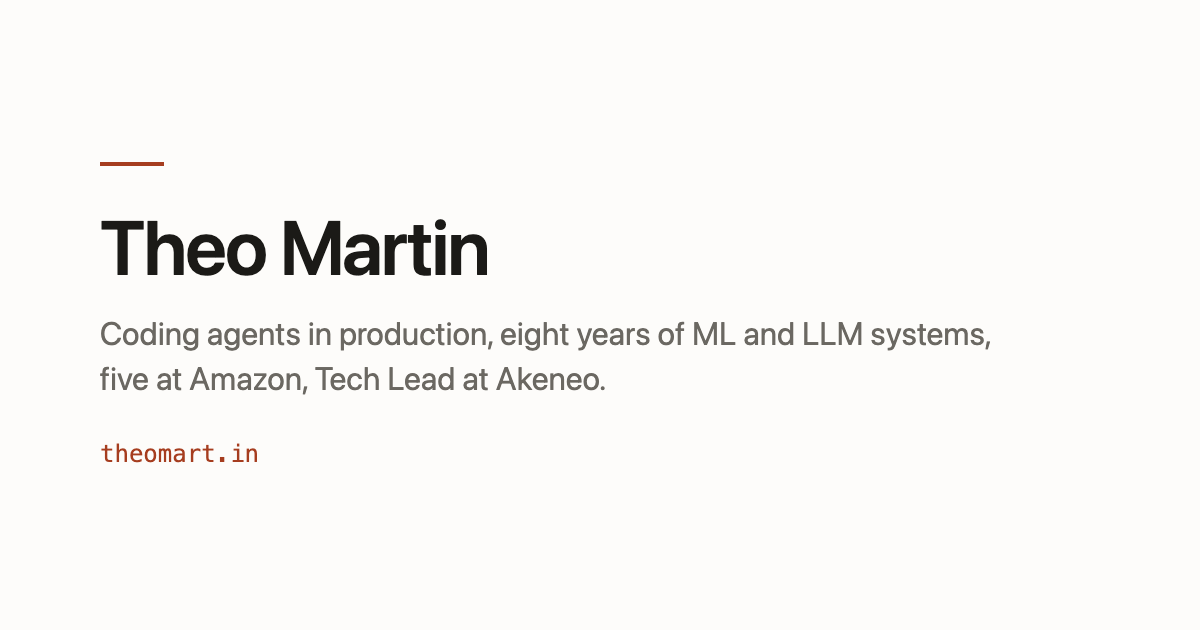
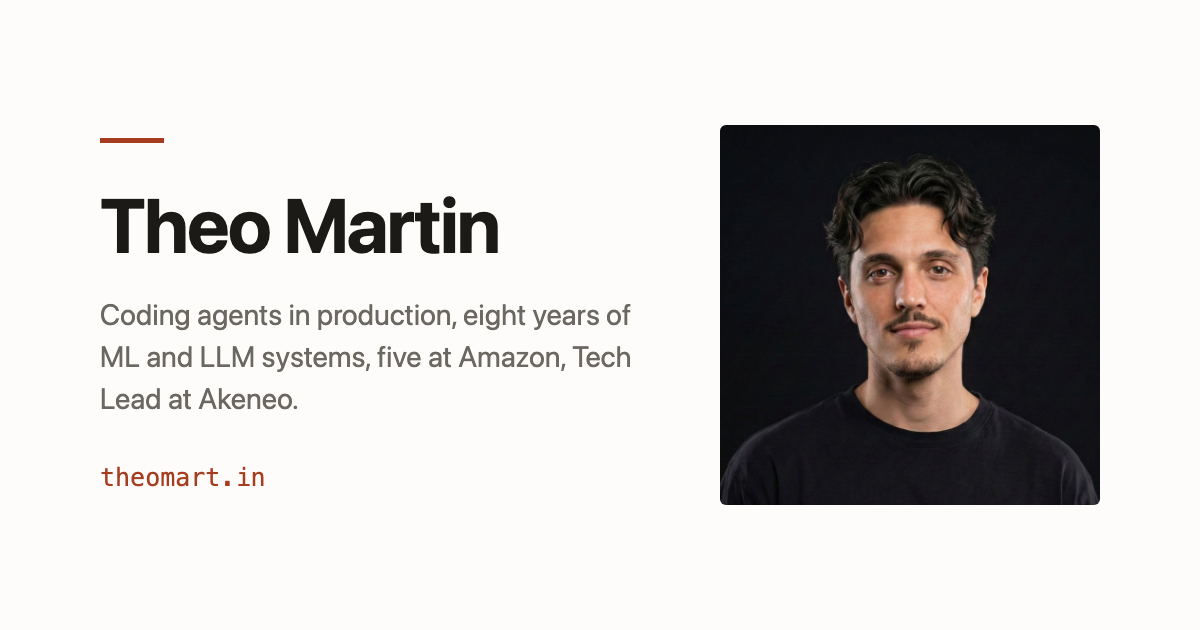
Add: portrait on home and about, photo in OG cards
Le site n'avait aucune image. Un visage est un signal de confiance
que les pages de vente n'avaient pas, et les partages sociaux
n'affichaient qu'une carte de texte.

Changes:
- static/theo.jpg, 640x640, servi sur les quatre pages statiques
- classe .portrait dans style.css, largeur 11rem, ratio carre
- champ image dans le JSON-LD Person des accueils et des a-propos
- cartes og-image fr et en regenerees avec le portrait a droite
- CLAUDE.md mis a jour, classes autorisees et contrat og_image

Benefits:
- preuve d'identite coherente avec le sameAs LinkedIn et GitHub
- partages LinkedIn et X montrent un visage au lieu d'un bloc de texte

diff --git a/pages/fr/a-propos.html b/pages/fr/a-propos.html
@@ -1,5 +1,7 @@
 <h1>À propos</h1>
 
+<img class="portrait" src="/static/theo.jpg" width="640" height="640" alt="Theo Martin, portrait">
+
 <p class="lede">Huit ans à mettre du ML puis des LLM en production, d’abord sur le pricing chez Amazon, ensuite sur des catalogues produit en SaaS. Aujourd’hui, des agents en production tous les jours, et de la place gardée chaque mois pour intervenir dans le repo d’autres équipes, là où le setup agentique est installé depuis des mois et rend encore une fraction de ce qu’il pourrait.</p>
 
 <h2>Le parcours</h2>
@@ -62,4 +64,4 @@
 
 <p class="meta"><a href="mailto:contacttheomartin@gmail.com">contacttheomartin@gmail.com</a>, <a href="https://www.linkedin.com/in/theomart/">LinkedIn</a>, <a href="https://github.com/theomart">GitHub</a>.</p>
 
-<script type="application/ld+json">{"@context":"https://schema.org","@type":"Person","name":"Theo Martin","url":"https://theomart.in/a-propos/","jobTitle":"Consultant indépendant, agents de code en production","description":"Huit ans de ML et de systèmes LLM en production, dont cinq chez Amazon, puis Tech Lead de l'équipe Core AI chez Akeneo.","sameAs":["https://www.linkedin.com/in/theomart/","https://github.com/theomart"],"alumniOf":[{"@type":"Organization","name":"Amazon"},{"@type":"Organization","name":"Akeneo"}],"knowsAbout":["Agents de code","Systèmes LLM en production","Claude Code","Ingénierie IA","Machine learning"]}</script>
+<script type="application/ld+json">{"@context":"https://schema.org","@type":"Person","name":"Theo Martin","image":"https://theomart.in/static/theo.jpg","url":"https://theomart.in/a-propos/","jobTitle":"Consultant indépendant, agents de code en production","description":"Huit ans de ML et de systèmes LLM en production, dont cinq chez Amazon, puis Tech Lead de l'équipe Core AI chez Akeneo.","sameAs":["https://www.linkedin.com/in/theomart/","https://github.com/theomart"],"alumniOf":[{"@type":"Organization","name":"Amazon"},{"@type":"Organization","name":"Akeneo"}],"knowsAbout":["Agents de code","Systèmes LLM en production","Claude Code","Ingénierie IA","Machine learning"]}</script>

diff --git a/pages/en/about.html b/pages/en/about.html
@@ -1,5 +1,7 @@
 <h1>About</h1>
 
+<img class="portrait" src="/static/theo.jpg" width="640" height="640" alt="Theo Martin, portrait">
+
 <p class="lede">Eight years putting ML and then LLMs into production, first on pricing at Amazon, then on product catalogs in SaaS. Today, agents in production every day, and room kept every month to work inside other teams’ repos, where the agentic setup has been installed for months and still returns a fraction of what it could.</p>
 
 <h2>The path</h2>
@@ -62,4 +64,4 @@
 
 <p class="meta">Based in Paris, EU timezone, overlap with US East until 5pm ET. <a href="mailto:contacttheomartin@gmail.com">contacttheomartin@gmail.com</a>, <a href="https://www.linkedin.com/in/theomart/">LinkedIn</a>, <a href="https://github.com/theomart">GitHub</a>.</p>
 
-<script type="application/ld+json">{"@context":"https://schema.org","@type":"Person","name":"Theo Martin","url":"https://theomart.in/en/about/","jobTitle":"Independent coding agents consultant","description":"Eight years of ML and production LLM systems, five of them at Amazon, then Tech Lead of the Core AI team at Akeneo.","sameAs":["https://www.linkedin.com/in/theomart/","https://github.com/theomart"],"alumniOf":[{"@type":"Organization","name":"Amazon"},{"@type":"Organization","name":"Akeneo"}],"knowsAbout":["Coding agents","Production LLM systems","Claude Code","AI engineering","Machine learning"]}</script>
+<script type="application/ld+json">{"@context":"https://schema.org","@type":"Person","name":"Theo Martin","image":"https://theomart.in/static/theo.jpg","url":"https://theomart.in/en/about/","jobTitle":"Independent coding agents consultant","description":"Eight years of ML and production LLM systems, five of them at Amazon, then Tech Lead of the Core AI team at Akeneo.","sameAs":["https://www.linkedin.com/in/theomart/","https://github.com/theomart"],"alumniOf":[{"@type":"Organization","name":"Amazon"},{"@type":"Organization","name":"Akeneo"}],"knowsAbout":["Coding agents","Production LLM systems","Claude Code","AI engineering","Machine learning"]}</script>

diff --git a/pages/en/index.html b/pages/en/index.html
@@ -1,5 +1,7 @@
 <h1>Theo Martin</h1>
 
+<img class="portrait" src="/static/theo.jpg" width="640" height="640" alt="Theo Martin, portrait">
+
 <p class="meta">Coding agents all look alike now, what makes the difference at your company is what you wrote around them, CLAUDE.md, skills, hooks, permissions, and six months after the licenses were bought that part is still empty.</p>
 
 <p class="lede">The tools are here and they are very good. Everywhere I have worked people underuse them, not out of laziness and not for lack of appetite, but because it is very easy to believe you have got the hang of a tool when you have not.</p>
@@ -66,4 +68,4 @@
 
 <p class="meta">Based in Paris, EU timezone, overlap with US East until 5pm ET. <a href="https://www.linkedin.com/in/theomart/">LinkedIn</a>, <a href="https://github.com/theomart">GitHub</a>.</p>
 
-<script type="application/ld+json">{"@context":"https://schema.org","@type":"Person","name":"Theo Martin","url":"https://theomart.in/en/","jobTitle":"Independent coding agents consultant","sameAs":["https://www.linkedin.com/in/theomart/","https://github.com/theomart"],"knowsAbout":["Coding agents","Production LLM systems","Claude Code","AI engineering"]}</script>
+<script type="application/ld+json">{"@context":"https://schema.org","@type":"Person","name":"Theo Martin","image":"https://theomart.in/static/theo.jpg","url":"https://theomart.in/en/","jobTitle":"Independent coding agents consultant","sameAs":["https://www.linkedin.com/in/theomart/","https://github.com/theomart"],"knowsAbout":["Coding agents","Production LLM systems","Claude Code","AI engineering"]}</script>

diff --git a/pages/fr/index.html b/pages/fr/index.html
@@ -1,5 +1,7 @@
 <h1>Theo Martin</h1>
 
+<img class="portrait" src="/static/theo.jpg" width="640" height="640" alt="Theo Martin, portrait">
+
 <p class="meta">Les agents de code se ressemblent tous maintenant, ce qui fait la différence chez vous c’est ce que vous avez écrit autour, CLAUDE.md, skills, hooks, permissions, et six mois après l’achat des licences cette partie-là est encore vide.</p>
 
 <p class="lede">Les outils sont là et ils sont très bons. Partout où je suis passé les gens les sous-utilisent, pas par paresse ni par manque d’envie, mais parce qu’il est très facile de croire qu’on a pris l’outil en main alors que non.</p>
@@ -66,4 +68,4 @@
 
 <p class="meta"><a href="https://www.linkedin.com/in/theomart/">LinkedIn</a></p>
 
-<script type="application/ld+json">{"@context":"https://schema.org","@type":"Person","name":"Theo Martin","url":"https://theomart.in/","jobTitle":"Consultant indépendant, agents de code en production","sameAs":["https://www.linkedin.com/in/theomart/","https://github.com/theomart"],"knowsAbout":["Agents de code","Systèmes LLM en production","Claude Code","Ingénierie IA"]}</script>
+<script type="application/ld+json">{"@context":"https://schema.org","@type":"Person","name":"Theo Martin","image":"https://theomart.in/static/theo.jpg","url":"https://theomart.in/","jobTitle":"Consultant indépendant, agents de code en production","sameAs":["https://www.linkedin.com/in/theomart/","https://github.com/theomart"],"knowsAbout":["Agents de code","Systèmes LLM en production","Claude Code","Ingénierie IA"]}</script>

diff --git a/static/style.css b/static/style.css
@@ -170,6 +170,17 @@ th { font-weight: 600; }
 
 .meta { color: var(--muted); font-size: 0.875rem; }
 
+/* Portrait : un seul visage sur le site, carré, jamais plus large que la colonne. */
+.portrait {
+  display: block;
+  width: 11rem;
+  max-width: 100%;
+  height: auto;
+  aspect-ratio: 1 / 1;
+  border-radius: 4px;
+  margin: 0 0 var(--s3);
+}
+
 /* Pile verticale : espace uniquement entre les enfants */
 .stack > * + * { margin-top: var(--s3); }
 

diff --git a/CLAUDE.md b/CLAUDE.md
@@ -27,7 +27,7 @@ templates/post.html        coquille des articles
 pages/fr/*.html            fragments HTML éditables à la main
 pages/en/*.html
 posts/AAAA-MM-JJ-slug.md   front matter plat + markdown
-static/                    style.css, favicon.ico, copié tel quel
+static/                    style.css, favicon.ico, theo.jpg, og-image*.png, copié tel quel
 .github/workflows/deploy.yml
 _site/                     sortie du build, jamais commitée
 ```
@@ -46,7 +46,7 @@ Le rendu est un `str.replace` sur les gabarits, il n'y a pas de moteur de templa
 
 `{{ lang }}`, `{{ alt_lang }}`, `{{ title }}`, `{{ description }}`, `{{ content }}`, `{{ nav }}`, `{{ lang_switch_href }}`, `{{ lang_switch_label }}`, `{{ canonical }}`, `{{ og_locale }}`, `{{ og_image }}`, `{{ feed_url }}`, `{{ year }}`, `{{ footer_links }}`
 
-`og_image` est l'URL absolue de `static/og-image.png` (français) ou `static/og-image-en.png` (anglais), une carte texte 1200×630 sans photo. `feed_url` est l'URL absolue du flux RSS de la langue courante.
+`og_image` est l'URL absolue de `static/og-image.png` (français) ou `static/og-image-en.png` (anglais), une carte 1200×630 aux couleurs du thème clair, texte à gauche et le portrait de `static/theo.jpg` à droite. Les deux se régénèrent en rasterisant un HTML, elles ne sont pas produites par le build. `feed_url` est l'URL absolue du flux RSS de la langue courante.
 
 `lang_switch_href` est l'URL absolue de la page équivalente dans l'autre langue. `alt_lang` et `og_locale` en découlent, `fr`/`en` et `fr_FR`/`en_US`. `templates/base.html` seul pose le `hreflang` réciproque, `{{ lang }}`/`{{ alt_lang }}` sur `{{ canonical }}`/`{{ lang_switch_href }}` : les articles n'ont pas de traduction, `lang_switch_href` y mène à l'index de l'autre langue, une cible fausse pour du `hreflang`.
 
@@ -75,7 +75,7 @@ legacy_url: /jekyll/update/2024/08/26/colbert.html
 
 Les fragments n'utilisent que celles-ci, la feuille de style ne stylise que celles-ci. Pas de framework, pas d'utilitaires façon Tailwind, pas de classe inventée hors de cette liste.
 
-`.lede`, `.offer`, `.offer-price`, `.meta`, `.cta`, `.note`, `.post-list`, `.post-item`, `.post-date`, `.post-title`, `.post-summary`, `.stack`, `.rule`
+`.lede`, `.offer`, `.offer-price`, `.meta`, `.cta`, `.note`, `.portrait`, `.post-list`, `.post-item`, `.post-date`, `.post-title`, `.post-summary`, `.stack`, `.rule`
 
 `.offer` contient un `h3`, un `.offer-price`, un `p` et un `ul`.
 
